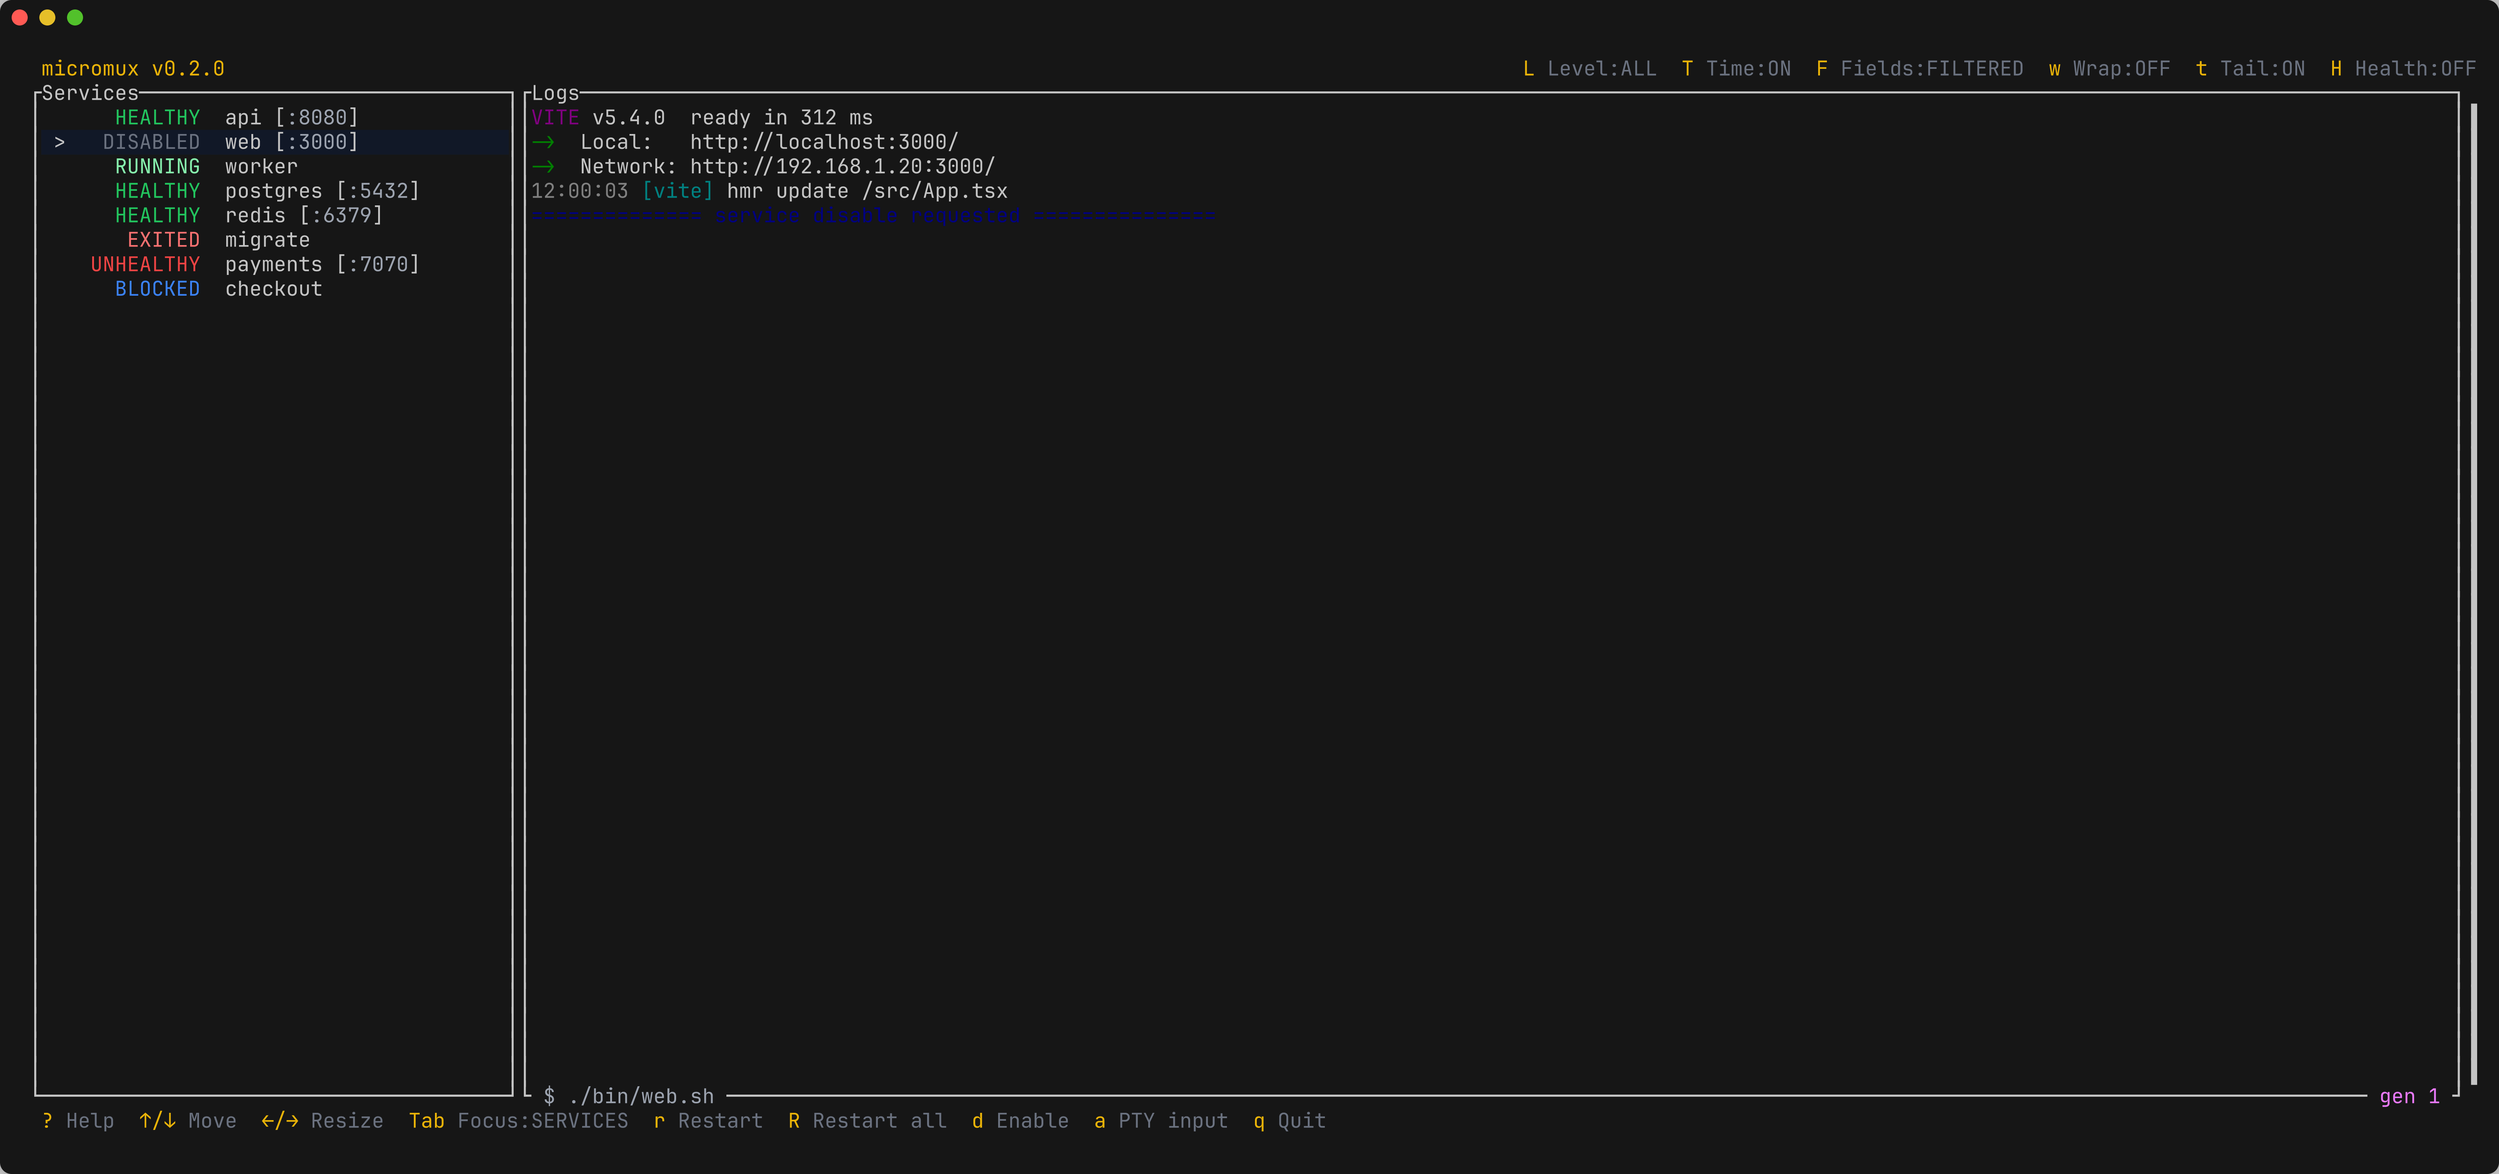
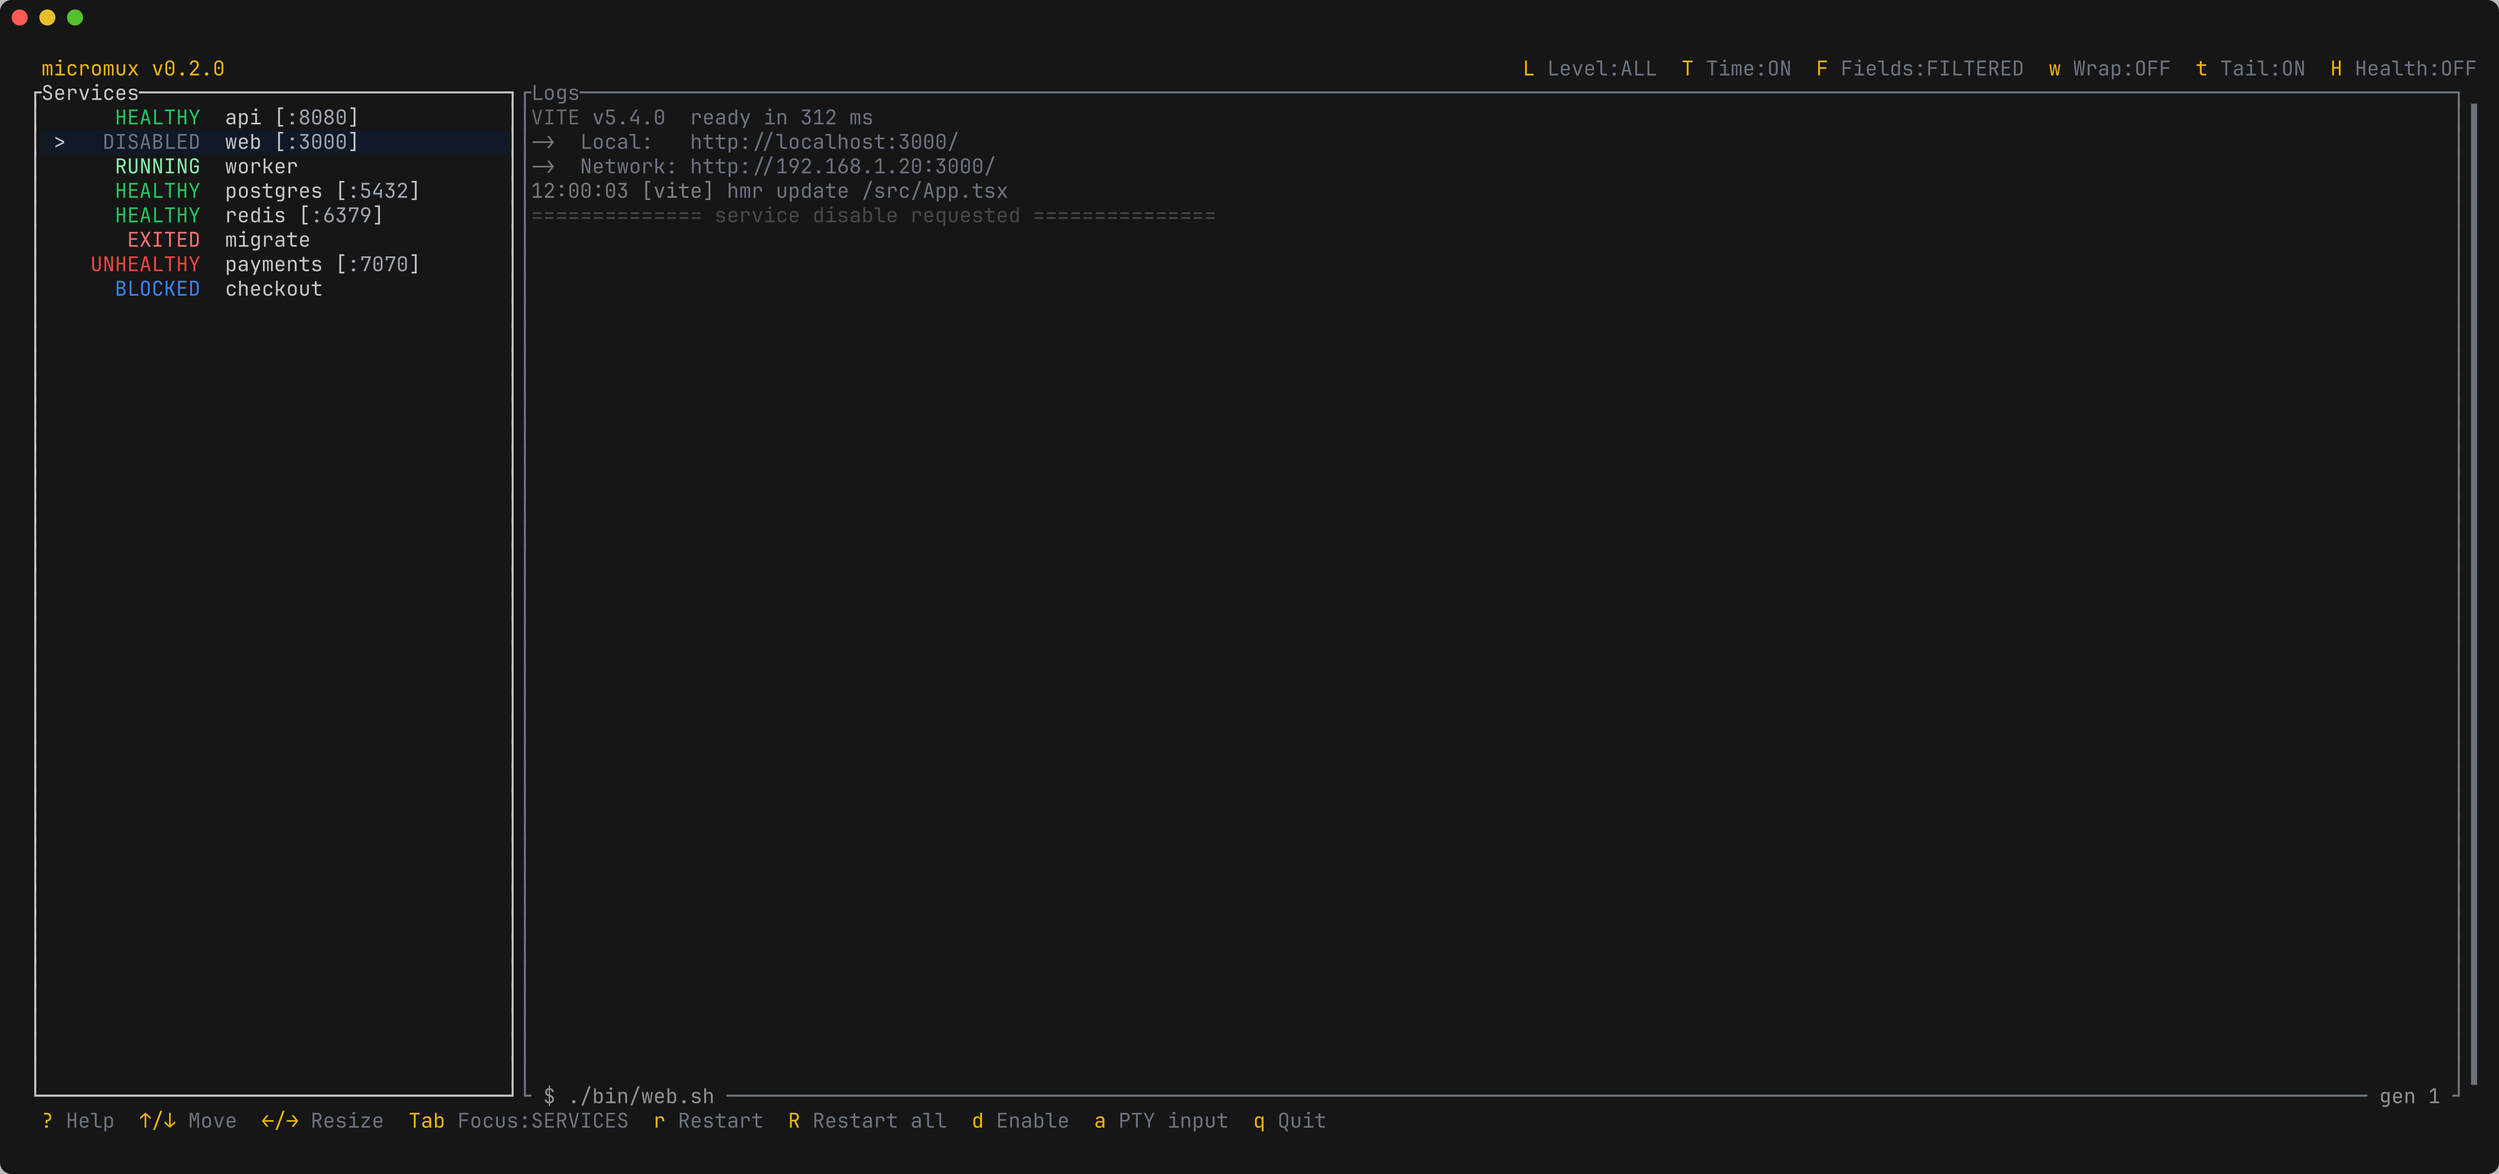
feat(tui): render a stopped service's logs in gray
A disabled or retired service's log pane used to look the same as a
live one, so nothing but the sidebar row said the output was a record.
After the pane is drawn, every cell's colors now map to a gray of their
own brightness, using xterm's palette for named and indexed colors and
Rec. 601 luma for RGB, while bold, underline, reverse and the other
modifiers stay. A bar or a highlight keeps its shape in gray, text
without a color of its own takes the disabled row's gray, and a cell
without a background keeps the terminal's.

The pass runs on the rendered cells rather than the cached log text, so
it needs no cache invalidation and re-enabling the service brings the
colors straight back.

The disable screenshot shows the effect; the other screenshots are
regenerated by the same task.

Changed region(s): [[0.9671, 0.0931, 0.9983, 0.8995], [0.2184, 0.0931, 0.4055, 0.1861]]

diff --git a/crates/micromux-tui/src/style.rs b/crates/micromux-tui/src/style.rs
@@ -1,4 +1,8 @@
-use ratatui::style::{Style, palette::tailwind};
+use ratatui::{
+    buffer::Buffer,
+    layout::Rect,
+    style::{Color, Style, palette::tailwind},
+};
 
 pub const INITIAL_SIDEBAR_WIDTH: u16 = 40;
 pub const MIN_SIDEBAR_WIDTH: u16 = 20;
@@ -13,13 +17,18 @@ pub fn health_style(health: Option<micromux::Health>) -> Style {
     }
 }
 
+/// Whether a service's panes show output nothing is producing any more.
+///
+/// A disabled or retired service is stopped, so its logs are a record rather than a live view.
+#[must_use]
+pub fn is_frozen(snapshot: &micromux::ServiceSnapshot) -> bool {
+    snapshot.retired.is_some() || snapshot.desired == micromux::Desired::Disabled
+}
+
 #[must_use]
 pub fn service_style(snapshot: &micromux::ServiceSnapshot) -> Style {
-    if snapshot.retired.is_some() {
-        return Style::default().fg(tailwind::GRAY.c500);
-    }
-    if snapshot.desired == micromux::Desired::Disabled {
-        return Style::default().fg(tailwind::GRAY.c500);
+    if is_frozen(snapshot) {
+        return Style::default().fg(FROZEN_TEXT);
     }
 
     match snapshot.execution {
@@ -36,5 +45,169 @@ pub fn service_style(snapshot: &micromux::ServiceSnapshot) -> Style {
             Style::default().fg(tailwind::AMBER.c500)
         }
         micromux::Execution::Exited => Style::default().fg(tailwind::RED.c400),
+    }
+}
+
+/// The gray of a frozen service's row and of its text that has no color of its own.
+const FROZEN_TEXT: Color = tailwind::GRAY.c500;
+
+/// The darkest gray a color turns into when frozen, kept visible on a dark background.
+const FROZEN_DARKEST: u8 = 64;
+
+/// How far the brightest color rises above [`FROZEN_DARKEST`], in sixteen steps of this size.
+const FROZEN_STEP: u8 = 8;
+
+/// Renders `area` the way a stopped service looks: every color becomes a gray of its own
+/// brightness, so bars and highlights keep their shape while nothing looks live.
+///
+/// Bold, underline, reverse and the other modifiers stay as they are.
+/// Text without a color of its own takes the gray of a frozen sidebar row, and a cell without
+/// its own background keeps the terminal's.
+pub fn freeze(buf: &mut Buffer, area: Rect) {
+    for position in area.positions() {
+        if let Some(cell) = buf.cell_mut(position) {
+            cell.fg = frozen(cell.fg, FROZEN_TEXT);
+            cell.bg = frozen(cell.bg, Color::Reset);
+        }
+    }
+}
+
+/// The gray `color` freezes to, or `default` for the terminal's default color.
+fn frozen(color: Color, default: Color) -> Color {
+    let Some(luma) = luma(color) else {
+        return default;
+    };
+    // The top four bits of the luma pick one of sixteen grays, which keeps the arithmetic in `u8`
+    // and still separates the colors a bar or a highlight is made of.
+    let step = u8::try_from(luma >> 12).unwrap_or(15);
+    let level = FROZEN_DARKEST + step * FROZEN_STEP;
+    Color::Rgb(level, level, level)
+}
+
+/// The brightness of `color` on a scale of 0 to 65280, or `None` for the terminal's default.
+///
+/// Named and indexed colors take xterm's palette, which most terminals ship as their default.
+fn luma(color: Color) -> Option<u16> {
+    let (red, green, blue) = match color {
+        Color::Reset => return None,
+        Color::Black | Color::Indexed(0) => (0, 0, 0),
+        Color::Red | Color::Indexed(1) => (205, 0, 0),
+        Color::Green | Color::Indexed(2) => (0, 205, 0),
+        Color::Yellow | Color::Indexed(3) => (205, 205, 0),
+        Color::Blue | Color::Indexed(4) => (0, 0, 238),
+        Color::Magenta | Color::Indexed(5) => (205, 0, 205),
+        Color::Cyan | Color::Indexed(6) => (0, 205, 205),
+        Color::Gray | Color::Indexed(7) => (229, 229, 229),
+        Color::DarkGray | Color::Indexed(8) => (127, 127, 127),
+        Color::LightRed | Color::Indexed(9) => (255, 0, 0),
+        Color::LightGreen | Color::Indexed(10) => (0, 255, 0),
+        Color::LightYellow | Color::Indexed(11) => (255, 255, 0),
+        Color::LightBlue | Color::Indexed(12) => (92, 92, 255),
+        Color::LightMagenta | Color::Indexed(13) => (255, 0, 255),
+        Color::LightCyan | Color::Indexed(14) => (0, 255, 255),
+        Color::White | Color::Indexed(15) => (255, 255, 255),
+        Color::Rgb(red, green, blue) => (red, green, blue),
+        // The 6x6x6 color cube, whose non-zero levels start at 95 and rise by 40.
+        Color::Indexed(index @ 16..=231) => {
+            let level = |steps: u8| if steps == 0 { 0 } else { 55 + 40 * steps };
+            let index = index - 16;
+            (level(index / 36), level(index / 6 % 6), level(index % 6))
+        }
+        // The grayscale ramp from 8 to 238 in steps of 10.
+        Color::Indexed(index @ 232..=255) => {
+            let level = 8 + 10 * (index - 232);
+            (level, level, level)
+        }
+    };
+    // Rec. 601 luma with weights that sum to 256, so the result fits `u16` without a division.
+    Some(77 * u16::from(red) + 151 * u16::from(green) + 28 * u16::from(blue))
+}
+
+#[cfg(test)]
+mod tests {
+    use super::{freeze, frozen, luma};
+    use color_eyre::eyre::{self, OptionExt as _};
+    use ratatui::{
+        buffer::Buffer,
+        layout::Rect,
+        style::{Color, Modifier, Style},
+        text::{Line, Span},
+    };
+    use similar_asserts::assert_eq;
+
+    /// Every color family maps onto xterm's palette, and the terminal's default has no luma.
+    #[test]
+    fn luma_follows_the_xterm_palette() {
+        assert_eq!(luma(Color::Reset), None);
+        assert_eq!(luma(Color::Black), Some(0));
+        assert_eq!(luma(Color::White), Some(256 * 255));
+        // Named colors and their indexed twins agree.
+        assert_eq!(luma(Color::Red), luma(Color::Indexed(1)));
+        assert_eq!(luma(Color::LightBlue), luma(Color::Indexed(12)));
+        // Green outshines red, which outshines blue, as it does on screen.
+        assert!(luma(Color::Green) > luma(Color::Red));
+        assert!(luma(Color::Red) > luma(Color::Blue));
+        // The cube's first entry is black, its last is white, and the ramp climbs by ten.
+        assert_eq!(luma(Color::Indexed(16)), Some(0));
+        assert_eq!(luma(Color::Indexed(231)), luma(Color::White));
+        assert_eq!(luma(Color::Indexed(232)), luma(Color::Rgb(8, 8, 8)));
+        assert_eq!(luma(Color::Indexed(255)), luma(Color::Rgb(238, 238, 238)));
+    }
+
+    /// The gray level `color` freezes to.
+    fn level(color: Color) -> eyre::Result<u8> {
+        match frozen(color, Color::Reset) {
+            Color::Rgb(red, green, blue) if red == green && green == blue => Ok(red),
+            other => eyre::bail!("expected a gray, got {other:?}"),
+        }
+    }
+
+    /// Frozen grays keep the order of the colors' brightness inside a visible range.
+    #[test]
+    fn frozen_grays_keep_brightness_order() -> eyre::Result<()> {
+        assert_eq!(level(Color::Black)?, 64);
+        assert_eq!(level(Color::White)?, 184);
+        assert!(level(Color::Yellow)? > level(Color::Green)?);
+        assert!(level(Color::Green)? > level(Color::Red)?);
+        assert!(level(Color::Red)? > level(Color::Blue)?);
+        assert!(level(Color::Blue)? > level(Color::Black)?);
+        // The default color takes whatever the caller stands in for it.
+        assert_eq!(frozen(Color::Reset, Color::Reset), Color::Reset);
+        assert_eq!(
+            frozen(Color::Reset, Color::Rgb(1, 2, 3)),
+            Color::Rgb(1, 2, 3)
+        );
+        Ok(())
+    }
+
+    /// Freezing an area grays its colors, keeps its modifiers, and leaves the rest of the buffer
+    /// untouched.
+    #[test]
+    fn freeze_grays_colors_and_keeps_modifiers() -> eyre::Result<()> {
+        let area = Rect::new(0, 0, 6, 2);
+        let mut buf = Buffer::empty(area);
+        let bold_red = Style::default()
+            .fg(Color::Red)
+            .bg(Color::Blue)
+            .add_modifier(Modifier::BOLD);
+        buf.set_line(0, 0, &Line::from(Span::styled("bar", bold_red)), 6);
+        buf.set_line(0, 1, &Line::from(Span::styled("keep", bold_red)), 6);
+
+        freeze(&mut buf, Rect::new(0, 0, 6, 1));
+
+        let frozen_cell = buf.cell((0, 0)).ok_or_eyre("missing frozen cell")?;
+        assert!(matches!(frozen_cell.fg, Color::Rgb(level, _, _) if level > 64));
+        assert!(matches!(frozen_cell.bg, Color::Rgb(..)));
+        assert_ne!(frozen_cell.fg, frozen_cell.bg);
+        assert!(frozen_cell.modifier.contains(Modifier::BOLD));
+        // An empty cell has no color of its own: its text goes gray and its background stays.
+        let empty_cell = buf.cell((5, 0)).ok_or_eyre("missing empty cell")?;
+        assert_eq!(empty_cell.fg, super::FROZEN_TEXT);
+        assert_eq!(empty_cell.bg, Color::Reset);
+        // The row outside the area keeps its colors.
+        let kept_cell = buf.cell((0, 1)).ok_or_eyre("missing kept cell")?;
+        assert_eq!(kept_cell.fg, Color::Red);
+        assert_eq!(kept_cell.bg, Color::Blue);
+        Ok(())
     }
 }

diff --git a/crates/micromux-tui/src/lib.rs b/crates/micromux-tui/src/lib.rs
@@ -1857,6 +1857,100 @@ mod tests {
         Ok(())
     }
 
+    /// A disabled service's log pane keeps its ANSI shapes but shows them in gray.
+    #[tokio::test]
+    async fn disabled_service_logs_render_in_gray() -> eyre::Result<()> {
+        let yaml = indoc! {r#"
+            version: 1
+            services:
+              svc:
+                command: ["sh", "-c", "true"]
+        "#};
+        let mut diagnostics: Vec<Diagnostic<usize>> = vec![];
+        let parsed = micromux::from_str(yaml, Path::new("."), 0usize, None, &mut diagnostics)
+            .map_err(|err| eyre::eyre!(err.to_string()))?;
+        let mux = std::sync::Arc::new(
+            micromux::Micromux::new(&parsed).map_err(|err| eyre::eyre!(err.to_string()))?,
+        );
+        let shutdown = micromux::CancellationToken::new();
+        let (_runner, handles) = mux.start(shutdown.clone());
+        let (commands_tx, _commands_rx) = mpsc::channel(4);
+        let mut app = App::new(
+            SessionSource::Local(LocalSource::new(handles.reader.clone(), commands_tx)),
+            Some(handles.terminal),
+            shutdown,
+            LogViewOptions::default(),
+        );
+
+        // Hand the viewer one red, bold line as if the service had printed it.
+        // Recording the format first keeps the render from rebuilding the lines from the empty
+        // log.
+        let pretty_json_logs = app.pretty_json_logs;
+        let service = app
+            .state
+            .current_service_mut()
+            .ok_or_else(|| eyre::eyre!("no current service"))?;
+        let format = service.line_format(pretty_json_logs);
+        service.use_format(&format);
+        service.apply_log_records(
+            None,
+            &[micromux::LogLine {
+                seq: 1,
+                run_generation: 1,
+                timestamp_unix_ms: 0,
+                line: "\x1b[1;31mfrozen\x1b[0m".to_string(),
+            }],
+            &format,
+        );
+
+        let area = ratatui::layout::Rect::new(0, 0, 120, 12);
+        let render = |app: &mut App| -> eyre::Result<ratatui::buffer::Cell> {
+            let mut buffer = ratatui::buffer::Buffer::empty(area);
+            app.render(area, &mut buffer);
+            // Find the first cell of the word inside the log pane.
+            let rows = area
+                .rows()
+                .map(|row| {
+                    row.columns()
+                        .filter_map(|column| buffer.cell(column).map(ratatui::buffer::Cell::symbol))
+                        .collect::<String>()
+                })
+                .collect::<Vec<_>>();
+            let (y, offset) = rows
+                .iter()
+                .zip(0u16..)
+                .find_map(|(text, y)| {
+                    // The border glyphs before the word are multi-byte, so count columns.
+                    let byte = text.find("frozen")?;
+                    Some((y, text[..byte].chars().count()))
+                })
+                .ok_or_else(|| eyre::eyre!("log line not rendered:\n{}", rows.join("\n")))?;
+            let x = u16::try_from(offset)?;
+            buffer
+                .cell((x, y))
+                .cloned()
+                .ok_or_else(|| eyre::eyre!("log cell missing"))
+        };
+
+        // Live, the line keeps its red.
+        let live = render(&mut app)?;
+        assert_eq!(live.fg, ratatui::style::Color::Red);
+        assert!(live.modifier.contains(ratatui::style::Modifier::BOLD));
+
+        // Disabled, the same line is a gray that still carries its bold.
+        if let Some(service) = app.state.current_service_mut() {
+            service.snapshot.desired = micromux::Desired::Disabled;
+        }
+        let frozen = render(&mut app)?;
+        assert!(
+            matches!(frozen.fg, ratatui::style::Color::Rgb(red, green, blue) if red == green && green == blue),
+            "{:?}",
+            frozen.fg
+        );
+        assert!(frozen.modifier.contains(ratatui::style::Modifier::BOLD));
+        Ok(())
+    }
+
     #[tokio::test]
     async fn restart_key_on_disabled_service_does_not_send_enable() -> eyre::Result<()> {
         let yaml = indoc! {r#"

diff --git a/crates/micromux-tui/src/render.rs b/crates/micromux-tui/src/render.rs
@@ -1386,6 +1386,11 @@ impl App {
             },
             buf,
         );
+        // A stopped service's logs are a record, not a live view, so the whole pane goes gray
+        // without losing the shapes its colors drew.
+        if crate::style::is_frozen(&current_service.snapshot) {
+            crate::style::freeze(buf, area);
+        }
     }
 
     fn render_healthchecks(&mut self, area: Rect, buf: &mut Buffer) {

diff --git a/docs/content/docs/tui.md b/docs/content/docs/tui.md
@@ -56,11 +56,11 @@ Some processes want input — a REPL, a prompt, a dev server waiting on a keypre
 
 ## Disabling on the fly
 
-Press `d` to disable the selected service: micromux stops it and its row turns gray, while its captured logs remain for inspection. Press `d` again to re-enable and start it.
+Press `d` to disable the selected service: micromux stops it and its row turns gray, while its captured logs remain for inspection. The log pane turns gray with it: every color becomes a shade of gray of its own brightness, so a progress bar or a highlighted row keeps its shape while nothing looks live. Press `d` again to re-enable and start it.
 
 Those preserved logs would otherwise look frozen, so micromux marks each transition in the log with a blue rule — `=== service disable requested ===`, `=== service enable requested ===`, `=== waiting for postgres to become healthy ===`, `=== automatic restart scheduled after 250 ms ===`. Whatever the log is doing, the last line says why. The same rules appear in `micromux ctl logs` and in the retained run files; the MCP log tools strip their color along with the rest of the ANSI.
 
-{{< figure src="images/disable.png" alt="A disabled service, stopped with its row grayed out" caption="A disabled service — stopped, grayed out, its logs preserved." >}}
+{{< figure src="images/disable.png" alt="A disabled service, stopped with its row grayed out" caption="A disabled service — stopped, grayed out, its logs preserved in gray." >}}
 
 ## Attach to a running session
 

diff --git a/README.md b/README.md
@@ -31,7 +31,7 @@
  <p align="center">
    <img src="https://raw.githubusercontent.com/romnn/micromux/main/docs/static/images/disable.png" alt="micromux with a service disabled" width="820" />
    <br />
-   <sub>Disable a service on the fly — it stops and its row turns gray.</sub>
+   <sub>Disable a service on the fly — it stops, and its row and its logs turn gray.</sub>
  </p>
 
  
